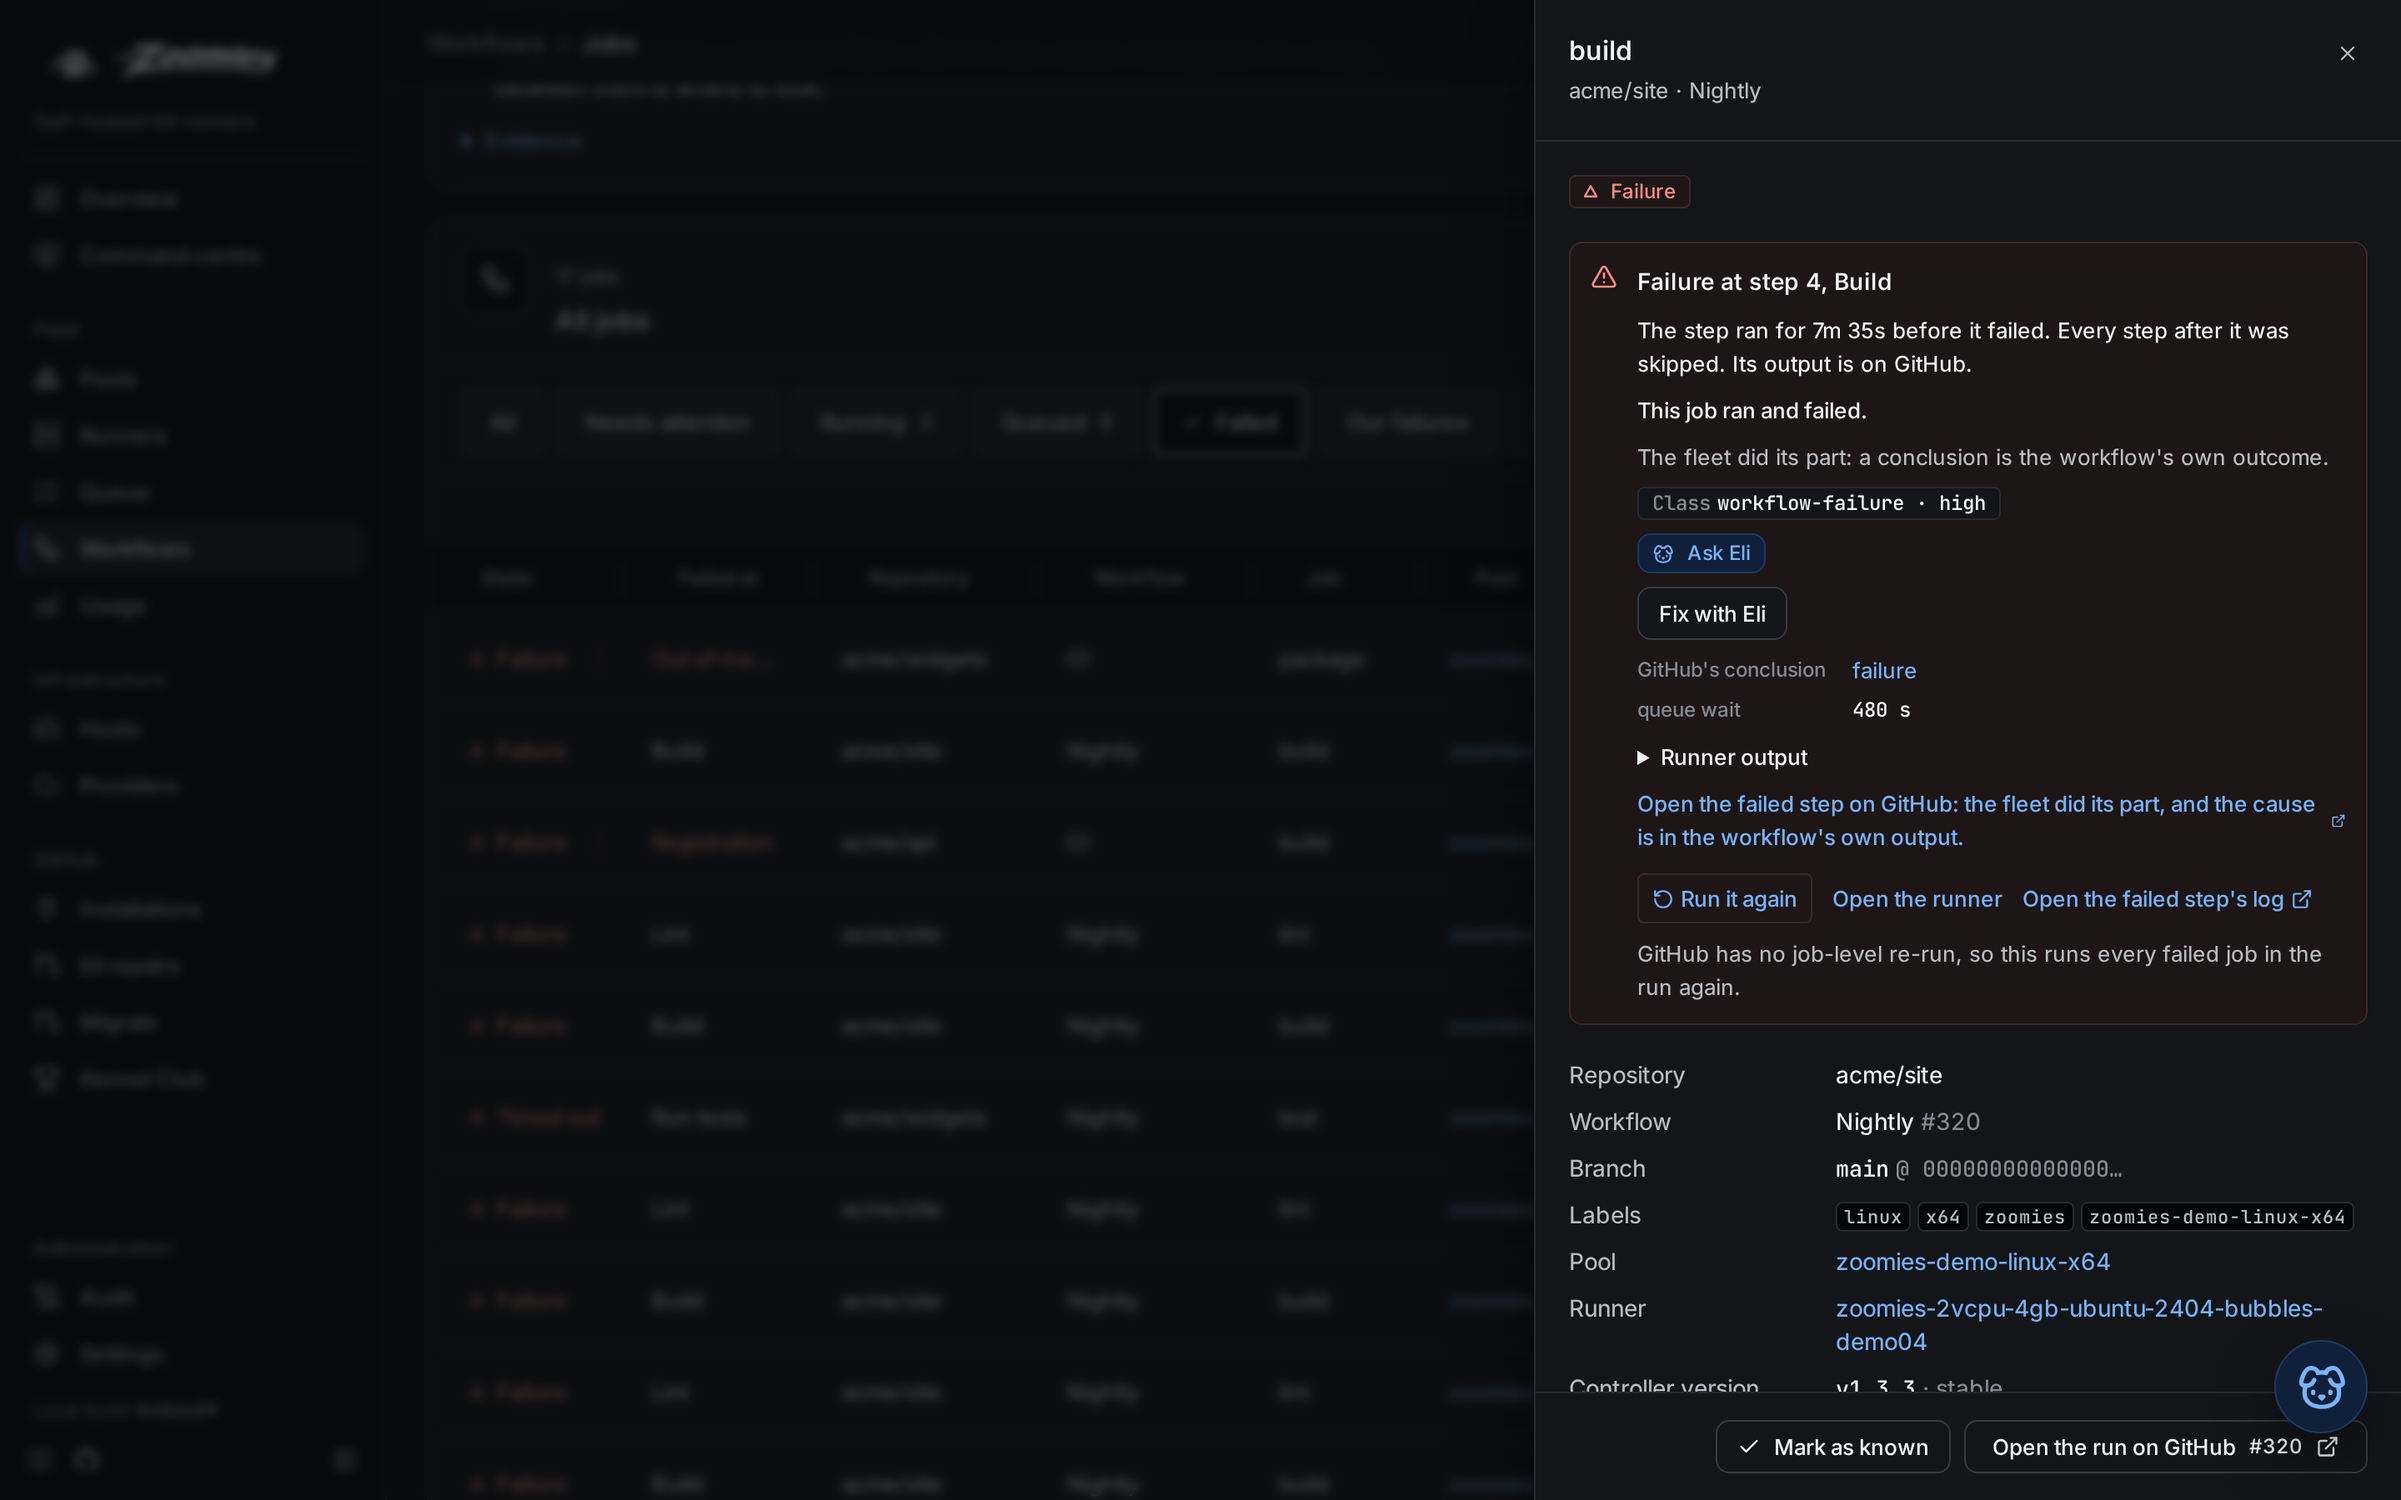
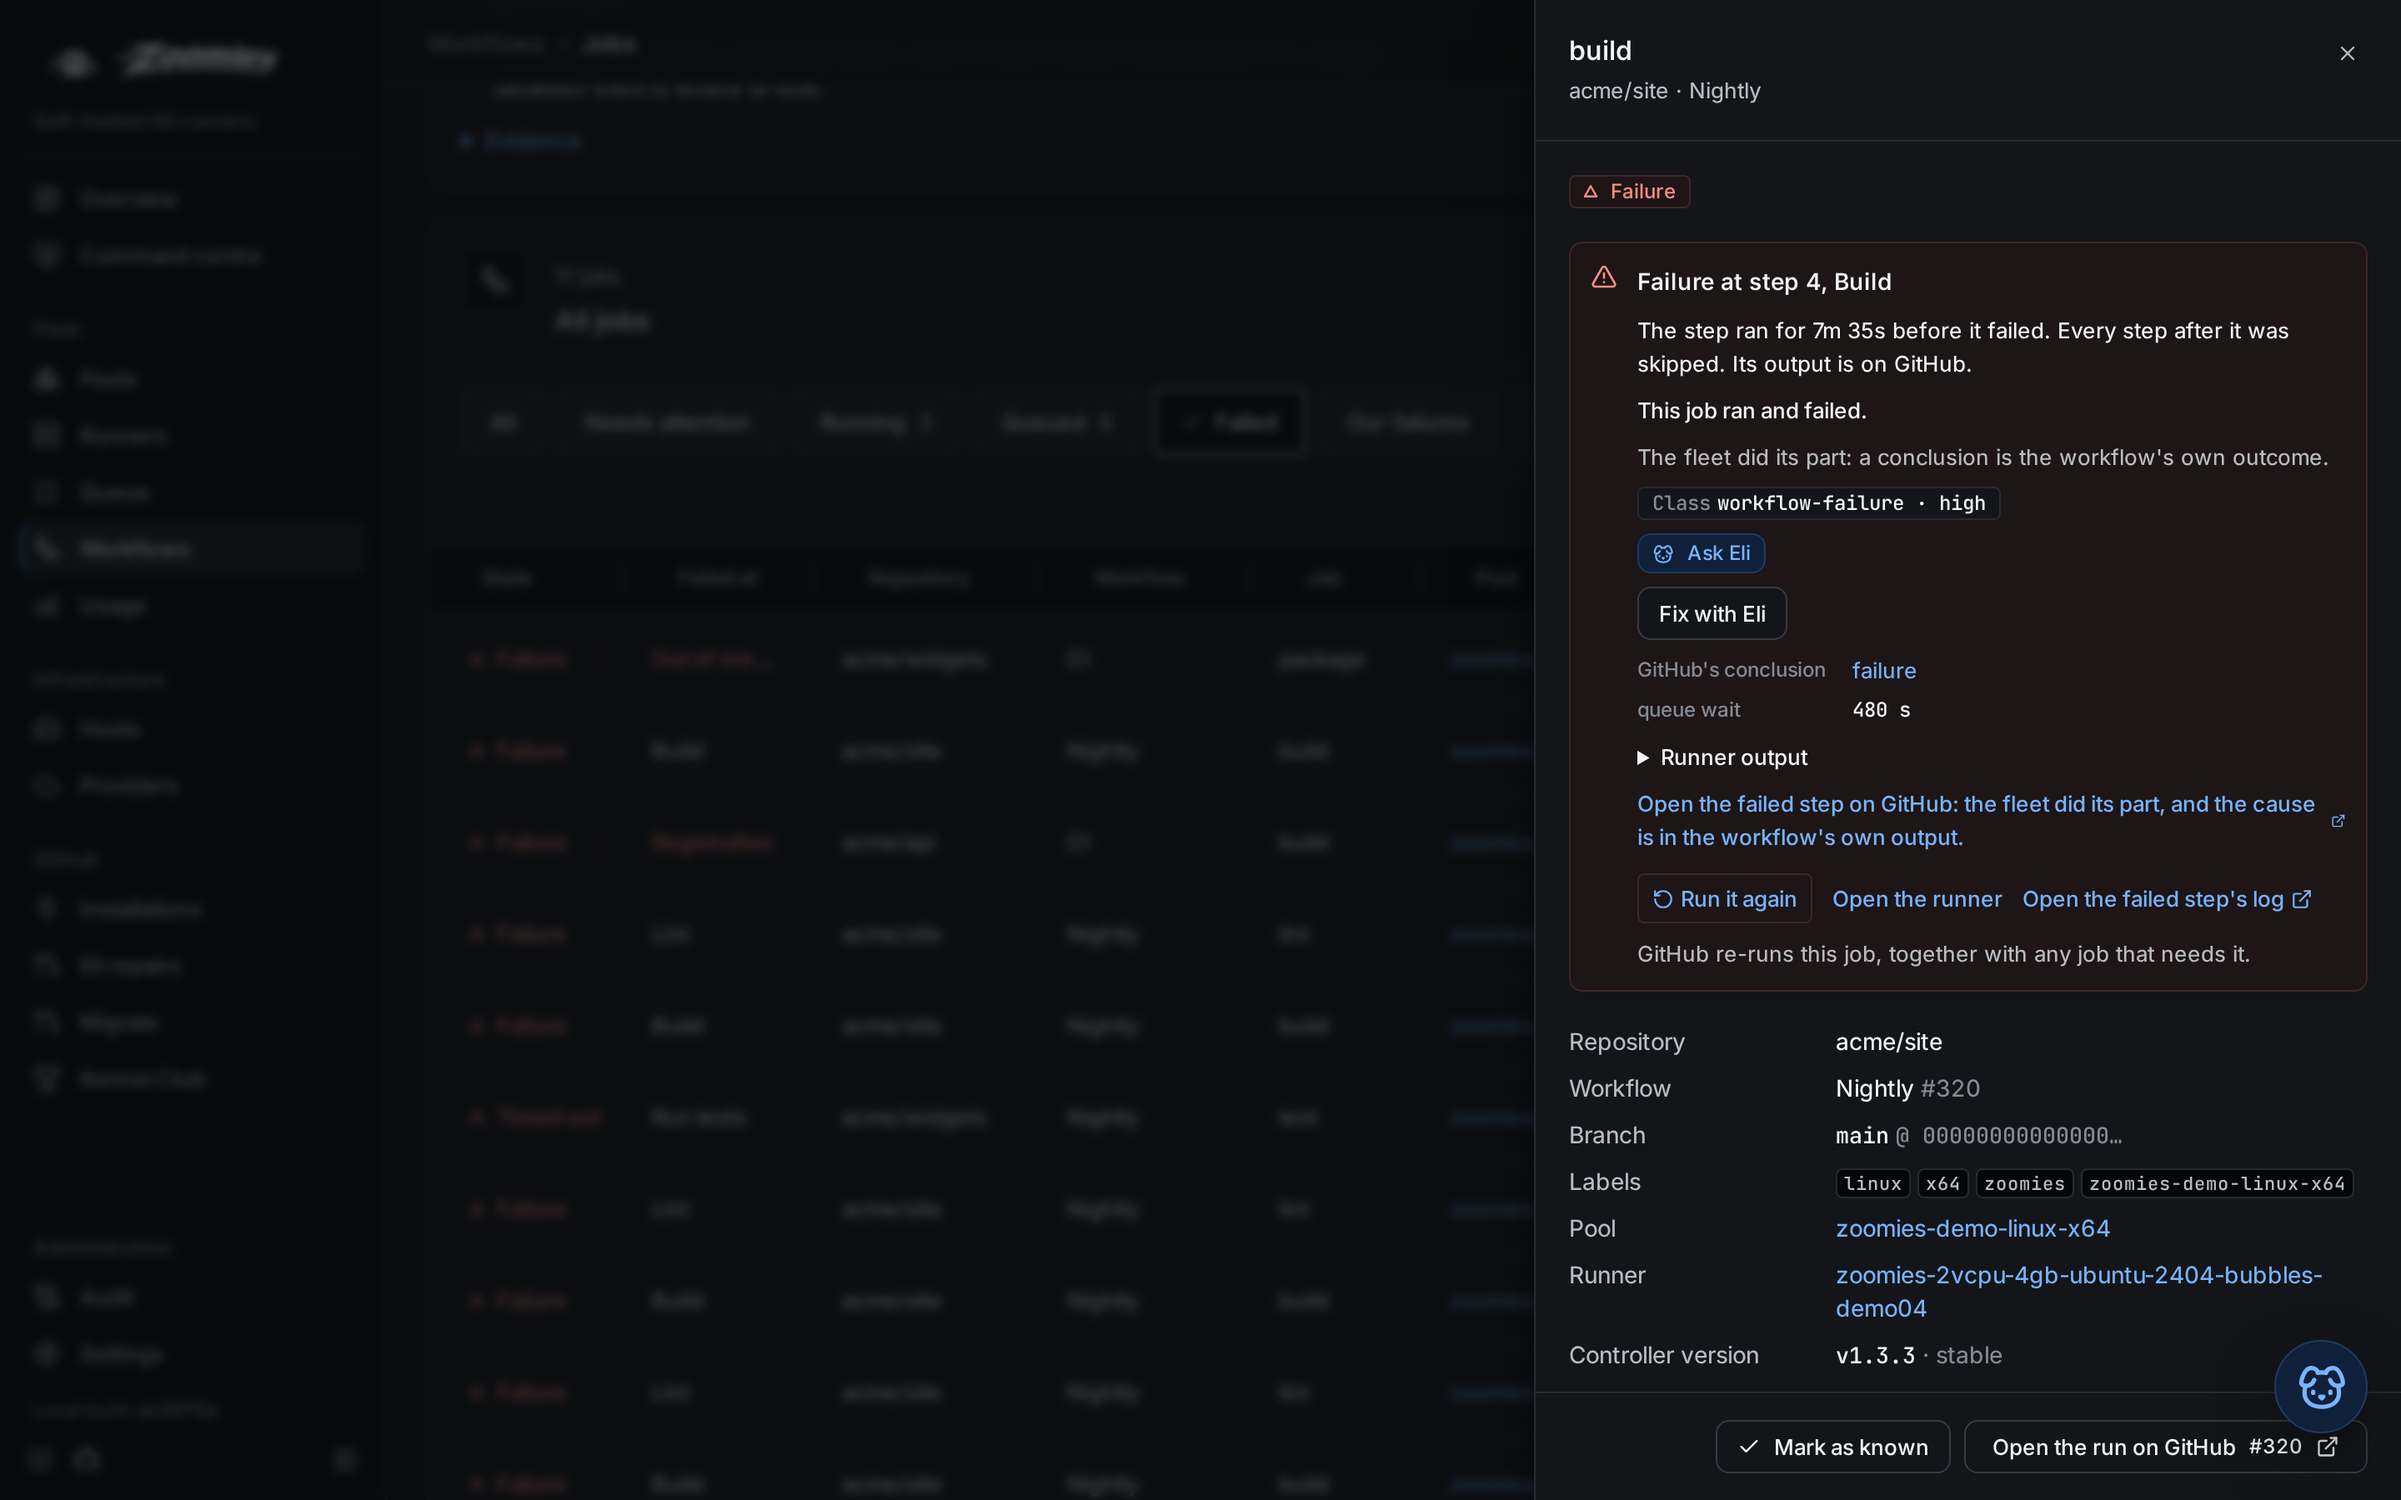
Describe a rerun as the job-level request the server makes
The server calls GitHub's job-level re-run whenever the job has a GitHub
job ID, and only falls back to the run's failed jobs when it does not.
The confirmation and the drawer's note promised the wider call for both,
so an operator could believe unrelated failures had been restarted.
Say which one is about to happen.

diff --git a/web/src/lib/jobs/JobDrawer.svelte b/web/src/lib/jobs/JobDrawer.svelte
@@ -129,6 +129,10 @@
       Boolean(job?.installation_id),
   );
   const acknowledged = $derived(job?.acknowledged_at != null);
+  // GitHub's job-level re-run is what the server asks for when it has a job
+  // ID; only a job recorded without one falls back to the run's failures. The
+  // confirmation has to say which, or it promises more than it does.
+  const jobLevelRerun = $derived((job?.github_job_id ?? 0) > 0);
   let rerunning = $state(false);
   let acking = $state(false);
   let rerunOpen = $state(false);
@@ -176,7 +180,9 @@
       await rerunJobWorkflow(job.id);
       toasts.success(
         'Re-run requested',
-        'GitHub is running this job again, together with any job that needs it. They arrive as a new run attempt.',
+        jobLevelRerun
+          ? 'GitHub is running this job again, together with any job that needs it. They arrive as a new run attempt.'
+          : 'GitHub is running the failed jobs in this run again. They arrive as a new run attempt.',
       );
       return true;
     } catch (cause) {
@@ -537,12 +543,19 @@
 -->
 <ConfirmDialog
   bind:open={rerunOpen}
-  title="Run the failed jobs again"
-  description="GitHub has no job-level re-run. This starts every failed job in the run again as a new run attempt."
-  consequences={[
-    `Run ${job?.run_number ? '#' + job.run_number : (job?.github_run_id ?? '')} in ${job?.repo ?? 'GitHub'} will be re-run.`,
-    'The runners it starts come from the same pools, so it spends capacity like a new run.',
-  ]}
+  title={jobLevelRerun ? 'Run this job again' : 'Run the failed jobs again'}
+  description={jobLevelRerun
+    ? 'GitHub runs this job again, together with any job that needs it, as a new run attempt.'
+    : 'This job has no GitHub job ID recorded, so GitHub has no job-level re-run to offer. This starts every failed job in the run again as a new run attempt.'}
+  consequences={jobLevelRerun
+    ? [
+        `Run ${job?.run_number ? '#' + job.run_number : (job?.github_run_id ?? '')} in ${job?.repo ?? 'GitHub'} will run this job again.`,
+        'The runner it starts comes from the same pool, so it spends capacity like a new run.',
+      ]
+    : [
+        `Run ${job?.run_number ? '#' + job.run_number : (job?.github_run_id ?? '')} in ${job?.repo ?? 'GitHub'} will be re-run.`,
+        'The runners it starts come from the same pools, so it spends capacity like a new run.',
+      ]}
   confirmLabel="Run again"
   tone="default"
   busy={rerunning}

diff --git a/web/tests/jobs.spec.ts b/web/tests/jobs.spec.ts
@@ -547,7 +547,7 @@ test('opening a failed job names the step and tells the story', async ({ page })
   await expect(timeline).toContainText('started on runner');
 });
 
-test('a rerun asks before it starts every failed job in the run', async ({ page }) => {
+test('a rerun asks before it runs the job again', async ({ page }) => {
   await goto(page, '/jobs?failed=true', 'Jobs');
   const rows = dataRows(jobs(page));
   await expect(rows.first()).toBeVisible();
@@ -556,9 +556,11 @@ test('a rerun asks before it starts every failed job in the run', async ({ page 
 
   const drawer = page.getByRole('dialog');
   await drawer.getByRole('button', { name: 'Run it again' }).click();
-  const confirm = page.getByRole('dialog', { name: 'Run the failed jobs again' });
+  // The seeded job has a GitHub job ID, so this is GitHub's job-level re-run:
+  // the job and whatever needs it, not every failure in the run.
+  const confirm = page.getByRole('dialog', { name: 'Run this job again' });
   await expect(confirm).toBeVisible();
-  await expect(confirm).toContainText('starts every failed job in the run again');
+  await expect(confirm).toContainText('together with any job that needs it');
   await confirm.getByRole('button', { name: 'Cancel' }).click();
   await expect(confirm).toBeHidden();
   // Nothing was asked of GitHub; the drawer is still where the operator was.

diff --git a/web/src/lib/jobs/JobWhy.svelte b/web/src/lib/jobs/JobWhy.svelte
@@ -38,7 +38,7 @@
     job: Job;
     /** failed: the job is over and went wrong; waiting: it has not started. */
     mode: 'failed' | 'waiting';
-    /** Set when the viewer may ask GitHub to run the run's failed jobs again. */
+    /** Set when the viewer may ask GitHub to run this job again. */
     onRerun?: (() => void) | null;
     rerunning?: boolean;
     class?: string;
@@ -69,6 +69,7 @@
   });
 
   const failed = $derived(mode === 'failed');
+  const jobLevelRerun = $derived((job.github_job_id ?? 0) > 0);
   const status = $derived(jobStatus(job.state, job.conclusion));
   const step = $derived(job.failed_step ?? null);
   const ours = $derived(fleetFailed(job));
@@ -303,7 +304,12 @@
     </div>
     {#if failed && onRerun}
       <p class="detail muted">
-        GitHub has no job-level re-run, so this runs every failed job in the run again.
+        {#if jobLevelRerun}
+          GitHub re-runs this job, together with any job that needs it.
+        {:else}
+          This job has no GitHub job ID here, so GitHub has no job-level re-run to offer; this runs
+          every failed job in the run again.
+        {/if}
       </p>
     {/if}
   </div>
